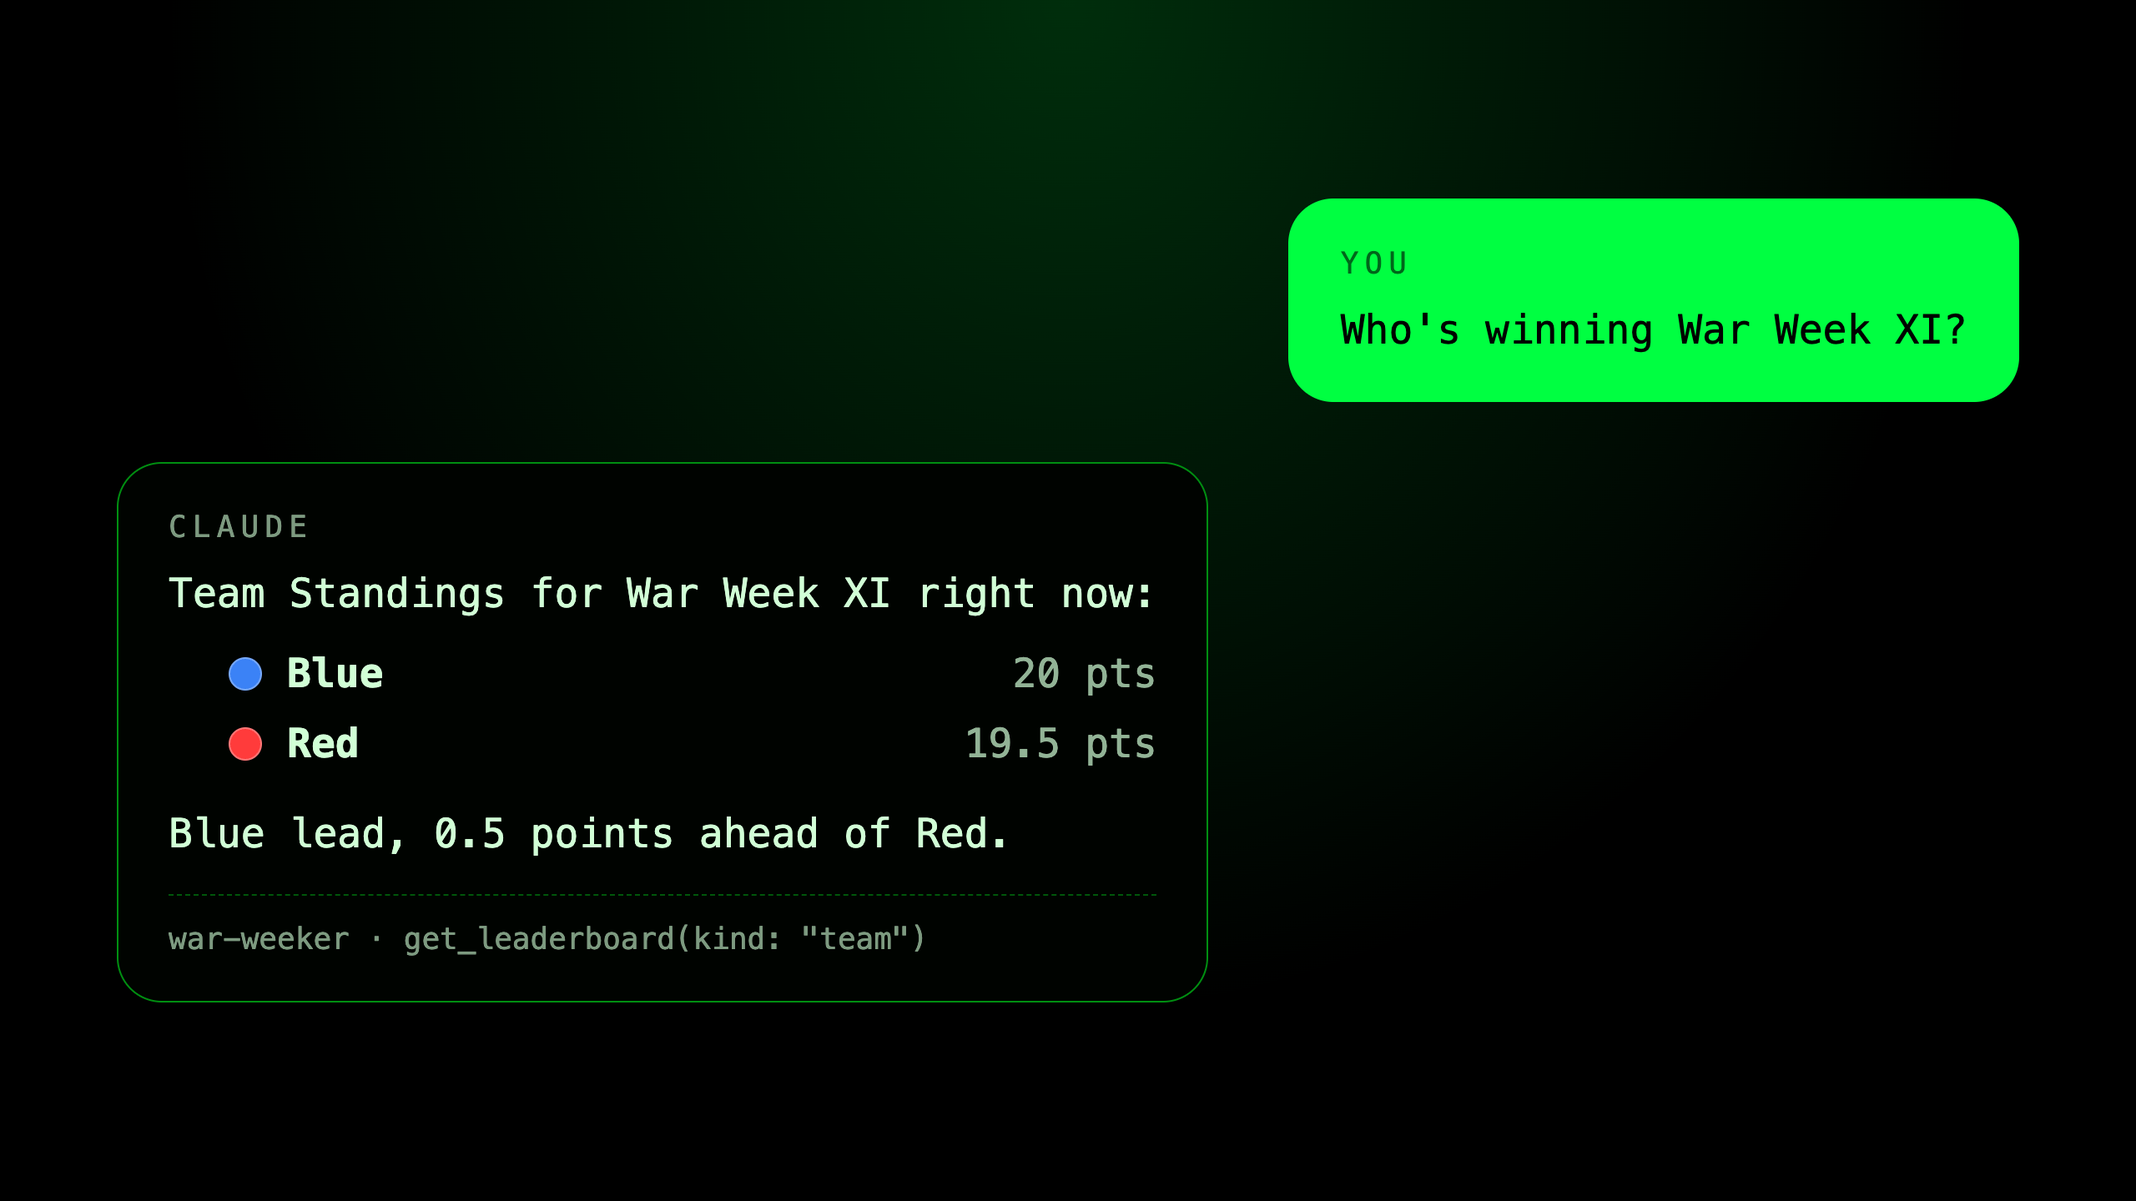
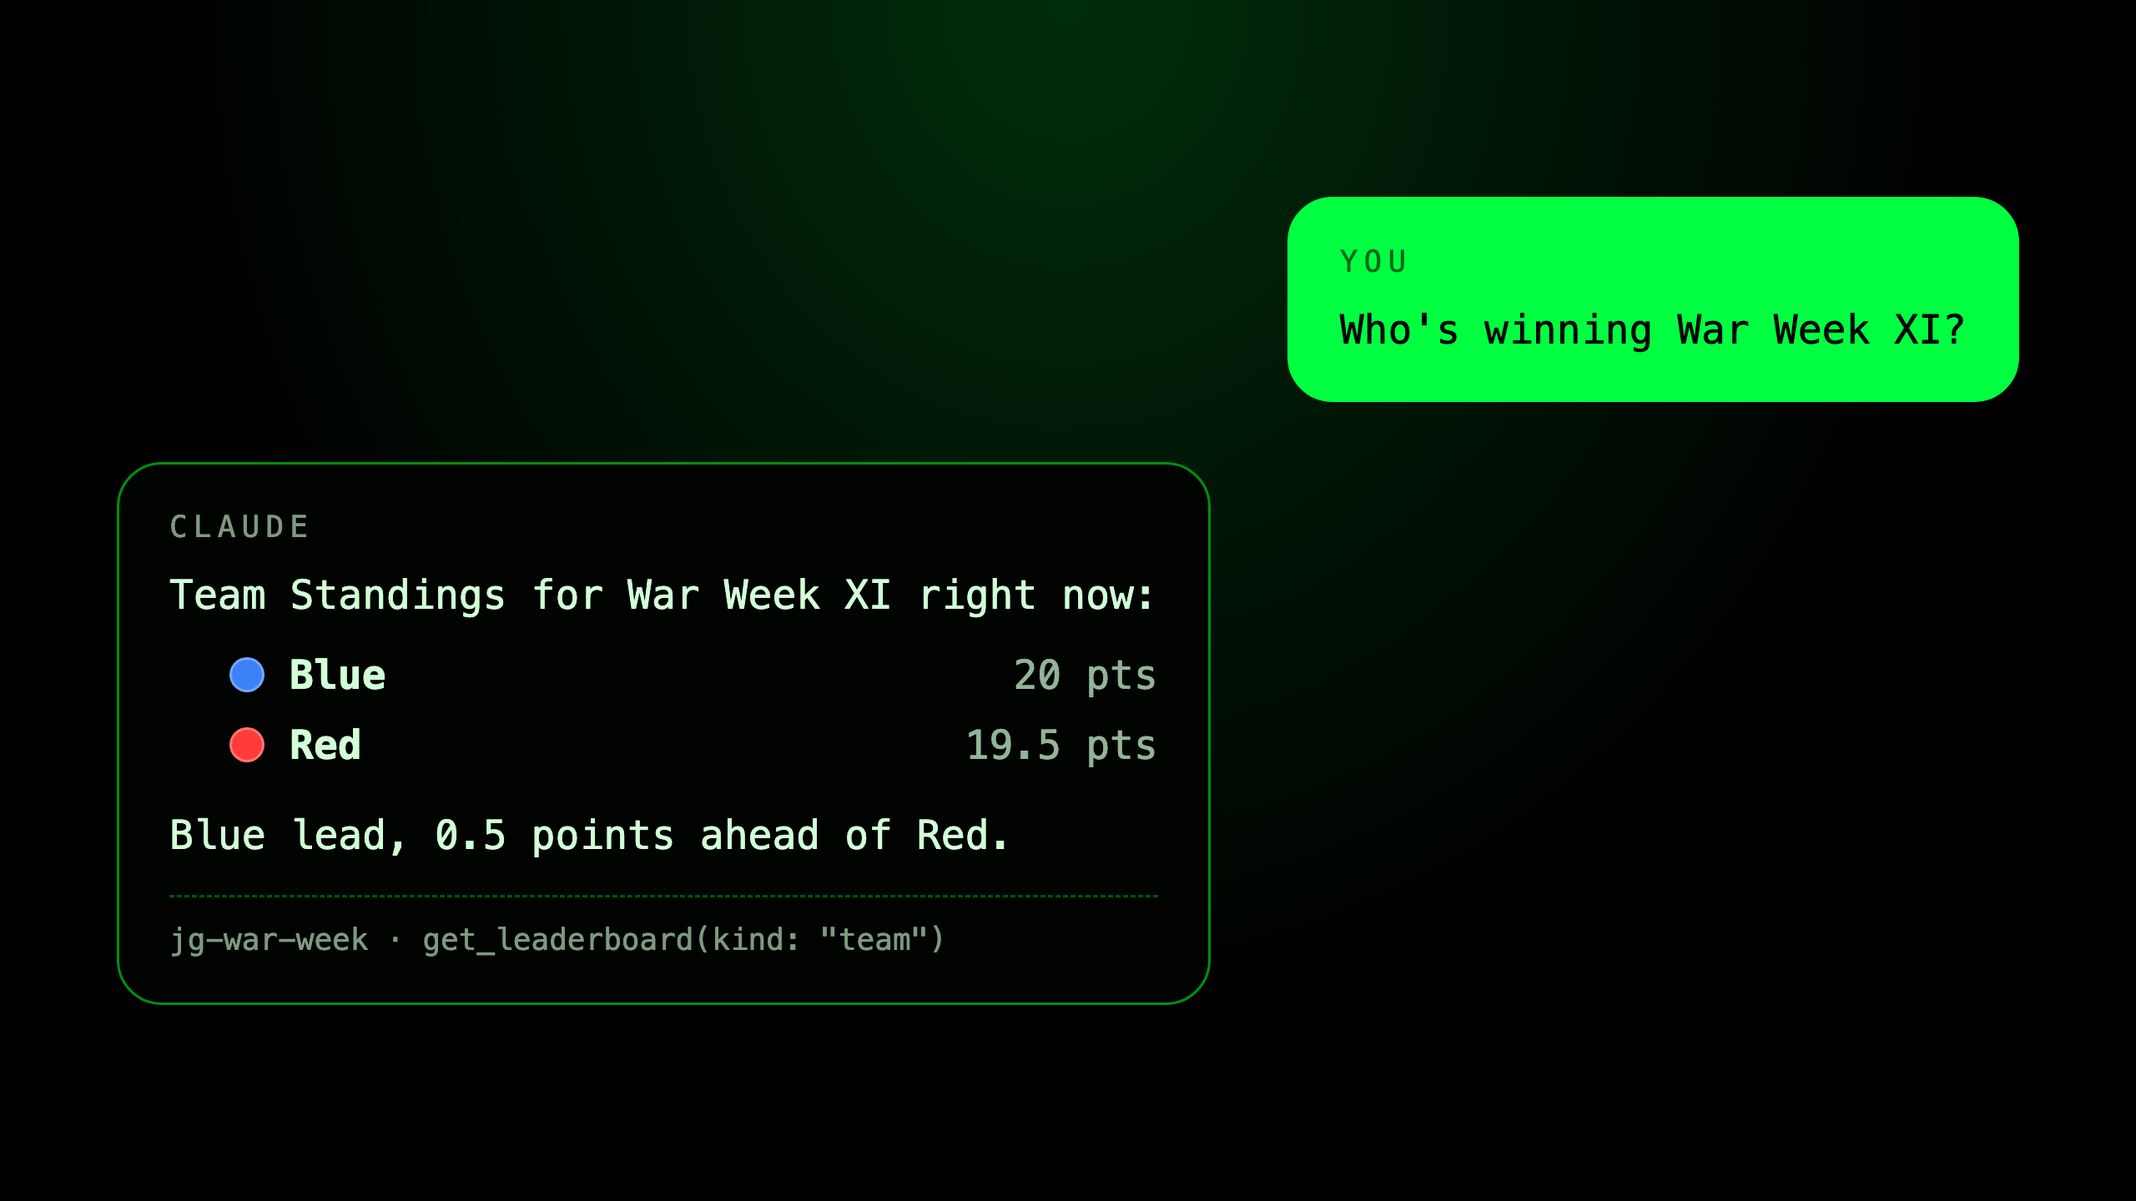
feat(37): rename War Weeker to JG War Week
User-facing name, page titles, PWA manifest, iOS title, about/privacy/terms/
install/sign-in copy, llms.txt, MCP server name, and the ask-claude still.
URLs and repo link point at jg-war-week. Internal ids (package, DB, CI,
.scratch paths) unchanged; icon unchanged.

diff --git a/src/app/about/page.tsx b/src/app/about/page.tsx
@@ -16,9 +16,9 @@ import { warWeekThemeStyle } from "@/lib/theme";
 import { cn } from "@/lib/utils";
 
 export const metadata: Metadata = {
-  title: "About · War Weeker",
+  title: "About · JG War Week",
   description:
-    "War Weeker is where Jahnel Group runs War Week: setup, schedule, Teams, Competitions, points, the Reveal, and every War Week since 2016.",
+    "The JG War Week app is where Jahnel Group runs War Week: setup, schedule, Teams, Competitions, points, the Reveal, and every War Week since 2016.",
 };
 
 /**
@@ -43,7 +43,7 @@ export default function AboutPage() {
       />
 
       <header className="relative mx-auto flex w-full max-w-6xl items-center justify-between px-4 py-5 sm:px-6">
-        <span className="text-sm font-bold tracking-wide">War Weeker</span>
+        <span className="text-sm font-bold tracking-wide">JG War Week</span>
         <Link
           href="/sign-in"
           className="text-foreground/70 hover:text-foreground text-sm underline-offset-4 hover:underline"
@@ -62,10 +62,10 @@ export default function AboutPage() {
               Run War Week in one place, and keep every year of it.
             </h1>
             <p className="text-foreground/75 max-w-xl text-lg leading-relaxed sm:text-xl">
-              War Weeker is where Jahnel Group runs War Week: the Story Theme,
-              the schedule, the Teams, the Competitions, the points and the
-              Reveal, on every phone in the building. Organizers set it up with
-              no code, and every War Week since 2016 is still here.
+              The JG War Week app is where Jahnel Group runs War Week: the Story
+              Theme, the schedule, the Teams, the Competitions, the points and
+              the Reveal, on every phone in the building. Organizers set it up
+              with no code, and every War Week since 2016 is still here.
             </p>
             <div className="flex flex-wrap items-center gap-3">
               <OpenCurrentEdition />
@@ -100,11 +100,11 @@ export default function AboutPage() {
             </Problem>
           </div>
           <p className="text-foreground/75 max-w-3xl text-lg leading-relaxed">
-            War Weeker puts all of it in one place. Organizers set up an edition
-            with no code, from the theme to the FAQ. Participants get a phone
-            app. The history is back. And it is Jahnel Group&apos;s to change:
-            the source is on GitHub, and the maintainer&apos;s guide walks
-            through the first change.
+            The JG War Week app puts all of it in one place. Organizers set up
+            an edition with no code, from the theme to the FAQ. Participants get
+            a phone app. The history is back. And it is Jahnel Group&apos;s to
+            change: the source is on GitHub, and the maintainer&apos;s guide
+            walks through the first change.
           </p>
         </section>
 
@@ -119,8 +119,8 @@ export default function AboutPage() {
           </div>
           <AboutFeatureGrid />
           <p className="text-foreground/75 max-w-3xl leading-relaxed">
-            Sign in and War Weeker finds you on the roster, so your Team is
-            highlighted wherever it appears. Once you&apos;re signed in,{" "}
+            Sign in and the JG War Week app finds you on the roster, so your
+            Team is highlighted wherever it appears. Once you&apos;re signed in,{" "}
             <strong>More → Install app</strong> puts it on your home screen, and
             every War Week keeps its own colors and logo.
           </p>

diff --git a/src/app/privacy/page.tsx b/src/app/privacy/page.tsx
@@ -6,12 +6,12 @@ import { ABOUT_THEME } from "@/lib/about";
 import { warWeekThemeStyle } from "@/lib/theme";
 
 export const metadata: Metadata = {
-  title: "Privacy · War Weeker",
-  description: "What War Weeker collects, why, and who can see it.",
+  title: "Privacy · JG War Week",
+  description: "What JG War Week collects, why, and who can see it.",
 };
 
 /**
- * The public Privacy page: what War Weeker collects and why, in plain
+ * The public Privacy page: what JG War Week collects and why, in plain
  * language. Static on purpose, like `/about`: copy only, no database or
  * session reads (`PUBLIC_PATHS` in `src/lib/access.ts`).
  */
@@ -23,7 +23,7 @@ export default function PrivacyPage() {
     >
       <header className="mx-auto flex w-full max-w-6xl items-center justify-between px-4 py-5 sm:px-6">
         <Link href="/about" className="text-sm font-bold tracking-wide">
-          War Weeker
+          JG War Week
         </Link>
         <Link
           href="/sign-in"
@@ -44,9 +44,9 @@ export default function PrivacyPage() {
         </div>
 
         <p className="text-foreground/80 leading-relaxed">
-          War Weeker is an internal Jahnel Group tool for running and following
-          War Week. This page explains what it collects, why, and who can see
-          it.
+          The JG War Week app is an internal Jahnel Group tool for running and
+          following War Week. This page explains what it collects, why, and who
+          can see it.
         </p>
 
         <section className="flex flex-col gap-3">
@@ -91,17 +91,18 @@ export default function PrivacyPage() {
           <h2 className="text-xl font-semibold tracking-tight">Why</h2>
           <p className="text-foreground/80 leading-relaxed">
             We collect this to run War Week and keep its history. Ask Claude,
-            War Weeker&apos;s read-only MCP connector, never returns an email
-            address.
+            the JG War Week app&apos;s read-only MCP connector, never returns an
+            email address.
           </p>
         </section>
 
         <section className="flex flex-col gap-3">
           <h2 className="text-xl font-semibold tracking-tight">Sharing</h2>
           <p className="text-foreground/80 leading-relaxed">
-            Nothing is sold or shared. War Weeker is hosted on Vercel with its
-            database on Neon (Postgres). There is no analytics, no advertising
-            and no tracking cookies — only the sign-in session cookie.
+            Nothing is sold or shared. The JG War Week app is hosted on Vercel
+            with its database on Neon (Postgres). There is no analytics, no
+            advertising and no tracking cookies — only the sign-in session
+            cookie.
           </p>
         </section>
 

diff --git a/src/mcp/llms-txt.ts b/src/mcp/llms-txt.ts
@@ -16,7 +16,7 @@ const PAGES: [path: string, purpose: string][] = [
   ["/<edition>/faq", "Frequently asked questions."],
   ["/<edition>/more", "Links to the rest of the War Week's pages."],
   ["/history", "The Archive of past War Weeks, 2016 onward."],
-  ["/install", "How to install War Weeker as an app."],
+  ["/install", "How to install JG War Week as an app."],
   [
     "/admin",
     "Organizer-only: Points Entry, Standings, Announcements, Awards, and Setup (War Week settings, Appearance Theme, Days).",
@@ -36,9 +36,9 @@ export function llmsTxt(origin: string): string {
     .map(([name, tool]) => `- \`${name}\`: ${tool.description}`)
     .join("\n");
 
-  return `# War Weeker
+  return `# JG War Week
 
-> War Weeker is where Jahnel Group organizers run War Week, the company's annual week of team competitions, and where participants follow it: themes, schedule, teams, competitions, points, awards and announcements, plus a history of past War Weeks.
+> The JG War Week app is where Jahnel Group organizers run War Week, the company's annual week of team competitions, and where participants follow it: themes, schedule, teams, competitions, points, awards and announcements, plus a history of past War Weeks.
 
 Every page and API route except sign-in needs a signed-in Jahnel Group account.
 
@@ -55,8 +55,8 @@ ${tools}
 ## Access
 
 - Browser: sign in with Google using a @jahnelgroup.com account.
-- MCP: send \`Authorization: Bearer <MCP_TOKEN>\`, a token the War Weeker operators issue. A signed-in browser session also works. Otherwise it answers 401.
-- Claude Code: \`claude mcp add --transport http war-weeker ${origin}/api/mcp --header "Authorization: Bearer <MCP_TOKEN>"\`
+- MCP: send \`Authorization: Bearer <MCP_TOKEN>\`, a token the JG War Week app operators issue. A signed-in browser session also works. Otherwise it answers 401.
+- Claude Code: \`claude mcp add --transport http jg-war-week ${origin}/api/mcp --header "Authorization: Bearer <MCP_TOKEN>"\`
 
 ## Source
 

diff --git a/src/app/terms/page.tsx b/src/app/terms/page.tsx
@@ -6,12 +6,12 @@ import { ABOUT_THEME } from "@/lib/about";
 import { warWeekThemeStyle } from "@/lib/theme";
 
 export const metadata: Metadata = {
-  title: "Terms · War Weeker",
-  description: "The terms for using War Weeker.",
+  title: "Terms · JG War Week",
+  description: "The terms for using JG War Week.",
 };
 
 /**
- * The public Terms page: plain-language terms for using War Weeker. Static
+ * The public Terms page: plain-language terms for using JG War Week. Static
  * on purpose, like `/about`: copy only, no database or session reads
  * (`PUBLIC_PATHS` in `src/lib/access.ts`).
  */
@@ -23,7 +23,7 @@ export default function TermsPage() {
     >
       <header className="mx-auto flex w-full max-w-6xl items-center justify-between px-4 py-5 sm:px-6">
         <Link href="/about" className="text-sm font-bold tracking-wide">
-          War Weeker
+          JG War Week
         </Link>
         <Link
           href="/sign-in"
@@ -48,8 +48,8 @@ export default function TermsPage() {
             An internal tool
           </h2>
           <p className="text-foreground/80 leading-relaxed">
-            War Weeker is an internal Jahnel Group tool for Jahnel Group
-            employees only. Signing in requires an @jahnelgroup.com Google
+            The JG War Week app is an internal Jahnel Group tool for Jahnel
+            Group employees only. Signing in requires an @jahnelgroup.com Google
             account.
           </p>
         </section>
@@ -59,7 +59,7 @@ export default function TermsPage() {
             Provided as is
           </h2>
           <p className="text-foreground/80 leading-relaxed">
-            War Weeker is provided as is, with no warranty of any kind.
+            The JG War Week app is provided as is, with no warranty of any kind.
           </p>
         </section>
 

diff --git a/src/components/install-instructions.tsx b/src/components/install-instructions.tsx
@@ -83,7 +83,7 @@ export function InstallInstructions() {
       {shown === "android" && <AndroidSteps />}
       {shown === "other" && (
         <p className="text-foreground/80">
-          Open War Weeker on your phone to add it to your home screen. On a
+          Open JG War Week on your phone to add it to your home screen. On a
           computer, Chrome and Edge offer an install button in the address bar.
         </p>
       )}
@@ -120,7 +120,7 @@ function IosSteps() {
     <Steps
       title={`${PLATFORM_LABEL.ios} (Safari)`}
       steps={[
-        "Open War Weeker in Safari.",
+        "Open JG War Week in Safari.",
         <>
           Tap the <strong>Share</strong> button (the square with an arrow
           pointing up).
@@ -129,7 +129,7 @@ function IosSteps() {
           Scroll down and tap <strong>Add to Home Screen</strong>.
         </>,
         <>
-          Tap <strong>Add</strong>, then open War Weeker from your Home Screen.
+          Tap <strong>Add</strong>, then open JG War Week from your Home Screen.
         </>,
       ]}
     />
@@ -155,7 +155,7 @@ function AndroidSteps() {
           installPrompt ? "Or install it by hand (Chrome)" : "Android (Chrome)"
         }
         steps={[
-          "Open War Weeker in Chrome.",
+          "Open JG War Week in Chrome.",
           <>
             Tap the <strong>⋮</strong> menu in the top-right corner.
           </>,
@@ -164,7 +164,7 @@ function AndroidSteps() {
             <strong>Add to Home screen</strong>).
           </>,
           <>
-            Tap <strong>Install</strong>, then open War Weeker from your home
+            Tap <strong>Install</strong>, then open JG War Week from your home
             screen.
           </>,
         ]}

diff --git a/scripts/smoke.ts b/scripts/smoke.ts
@@ -409,7 +409,7 @@ async function assertInstallable() {
       appleTouchIcon: home.includes('href="/icons/apple-touch-icon.png"'),
       favicon: home.includes('rel="icon" href="/favicon.ico'),
       install:
-        install.status === 200 && installBody.includes("Install War Weeker"),
+        install.status === 200 && installBody.includes("Install JG War Week"),
       installFooter: installBody.includes("Jahnel Group"),
     };
     if (Object.values(checks).every(Boolean)) {
@@ -433,7 +433,7 @@ async function assertLlmsTxt() {
       contentType: (res.headers.get("content-type") ?? "").startsWith(
         "text/plain",
       ),
-      title: body.startsWith("# War Weeker\n"),
+      title: body.startsWith("# JG War Week\n"),
       tools: Object.keys(MCP_TOOLS).every((name) =>
         body.includes(`\`${name}\``),
       ),
@@ -945,7 +945,7 @@ async function assertSignInPage() {
     const res = await fetch(`${BASE_URL}/sign-in?callbackURL=%2Fadmin`);
     const body = await res.text();
     const checks = {
-      heading: body.includes("Sign in to War Weeker"),
+      heading: body.includes("Sign in to JG War Week"),
       domain: body.includes("Use your @jahnelgroup.com Google account."),
       notConfigured: body.includes("configured on this server"),
       about: body.includes('href="/about"'),

diff --git a/src/app/sign-in/page.tsx b/src/app/sign-in/page.tsx
@@ -12,7 +12,7 @@ import { getCurrentWarWeek } from "@/queries/war-weeks";
 
 export const dynamic = "force-dynamic";
 
-export const metadata: Metadata = { title: "Sign in · War Weeker" };
+export const metadata: Metadata = { title: "Sign in · JG War Week" };
 
 function firstParam(value: string | string[] | undefined): string | undefined {
   return Array.isArray(value) ? value[0] : value;
@@ -76,7 +76,7 @@ export default async function SignInPage({
           ) : null}
 
           <div className="flex flex-col gap-2">
-            <h1 className="text-xl font-semibold">Sign in to War Weeker</h1>
+            <h1 className="text-xl font-semibold">Sign in to JG War Week</h1>
             <p className="text-foreground/70 text-sm">
               {`Use your @${JG_EMAIL_DOMAIN} Google account.`}
             </p>
@@ -107,7 +107,7 @@ export default async function SignInPage({
           href="/about"
           className="hover:text-foreground underline underline-offset-4"
         >
-          What War Weeker is
+          What the JG War Week app is
         </Link>
       </p>
       <SiteFooter className="relative py-0" />

diff --git a/src/app/install/page.tsx b/src/app/install/page.tsx
@@ -9,10 +9,10 @@ import { getCurrentWarWeek } from "@/queries/war-weeks";
 
 export const dynamic = "force-dynamic";
 
-export const metadata: Metadata = { title: "Install app · War Weeker" };
+export const metadata: Metadata = { title: "Install app · JG War Week" };
 
 /**
- * How to add War Weeker to a phone's home screen, dressed in the current
+ * How to add JG War Week to a phone's home screen, dressed in the current
  * War Week's Appearance Theme. The steps themselves are picked on the client.
  */
 export default async function InstallPage() {
@@ -31,7 +31,7 @@ export default async function InstallPage() {
           <ChevronLeft aria-hidden className="size-4" />
           Back
         </Link>
-        <h1 className="text-2xl font-bold">Install War Weeker</h1>
+        <h1 className="text-2xl font-bold">Install JG War Week</h1>
         <InstallInstructions />
       </main>
       <SiteFooter className="mt-auto" />

diff --git a/src/lib/about.ts b/src/lib/about.ts
@@ -61,7 +61,7 @@ export const ABOUT_FEATURES = [
   {
     slug: "ask-claude",
     title: "Ask Claude",
-    text: "Add War Weeker to Claude as an MCP connector and ask who's winning, what's on this afternoon, or who won War Week VIII. Read-only, and it never spoils hidden Standings.",
-    alt: "A chat with Claude asking who's winning War Week XI, answered from War Weeker's MCP connector.",
+    text: "Add the JG War Week app to Claude as an MCP connector and ask who's winning, what's on this afternoon, or who won War Week VIII. Read-only, and it never spoils hidden Standings.",
+    alt: "A chat with Claude asking who's winning War Week XI, answered from the JG War Week app's MCP connector.",
   },
 ] as const;

diff --git a/src/mcp/llms-txt.test.ts b/src/mcp/llms-txt.test.ts
@@ -28,7 +28,7 @@ describe("llmsTxt", () => {
 
   it("follows the llmstxt.org shape: H1, summary blockquote, sections", () => {
     const lines = text.split("\n");
-    expect(lines[0]).toBe("# War Weeker");
+    expect(lines[0]).toBe("# JG War Week");
     expect(lines.find((line) => line.startsWith("> "))).toBeDefined();
     for (const section of ["Pages", "MCP", "Access", "Source"]) {
       expect(text).toContain(`\n## ${section}\n`);
@@ -50,6 +50,6 @@ describe("llmsTxt", () => {
   });
 
   it("links the source repo from the footer", () => {
-    expect(text).toContain("https://github.com/paul-macfarlane/war-weeker");
+    expect(text).toContain("https://github.com/paul-macfarlane/jg-war-week");
   });
 });

diff --git a/src/components/organizer-guide.tsx b/src/components/organizer-guide.tsx
@@ -141,9 +141,9 @@ export function OrganizerGuide({
             Announcements
           </Link>{" "}
           support rich text and video, and one can be pinned to the home screen.
-          War Weeker doesn&apos;t post to Slack for you — it only stores the War
-          Week&apos;s Slack URL and links to it. Post the Announcement&apos;s
-          link in Slack yourself.
+          The JG War Week app doesn&apos;t post to Slack for you — it only
+          stores the War Week&apos;s Slack URL and links to it. Post the
+          Announcement&apos;s link in Slack yourself.
         </p>
       </section>
 

diff --git a/scripts/about-media.ts b/scripts/about-media.ts
@@ -556,7 +556,7 @@ function chatCardUrl(result: LeaderboardResult): string {
   .who{font-size:12px;letter-spacing:.2em;text-transform:uppercase;opacity:.6;margin-bottom:6px}
   </style></head><body><div class="chat">
   <div class="msg you"><div class="who">You</div>Who's winning War Week XI?</div>
-  <div class="msg claude"><div class="who">Claude</div>${answer}<div class="tool">war-weeker · get_leaderboard(kind: "team")</div></div>
+  <div class="msg claude"><div class="who">Claude</div>${answer}<div class="tool">jg-war-week · get_leaderboard(kind: "team")</div></div>
   </div></body></html>`)}`;
 }
 
